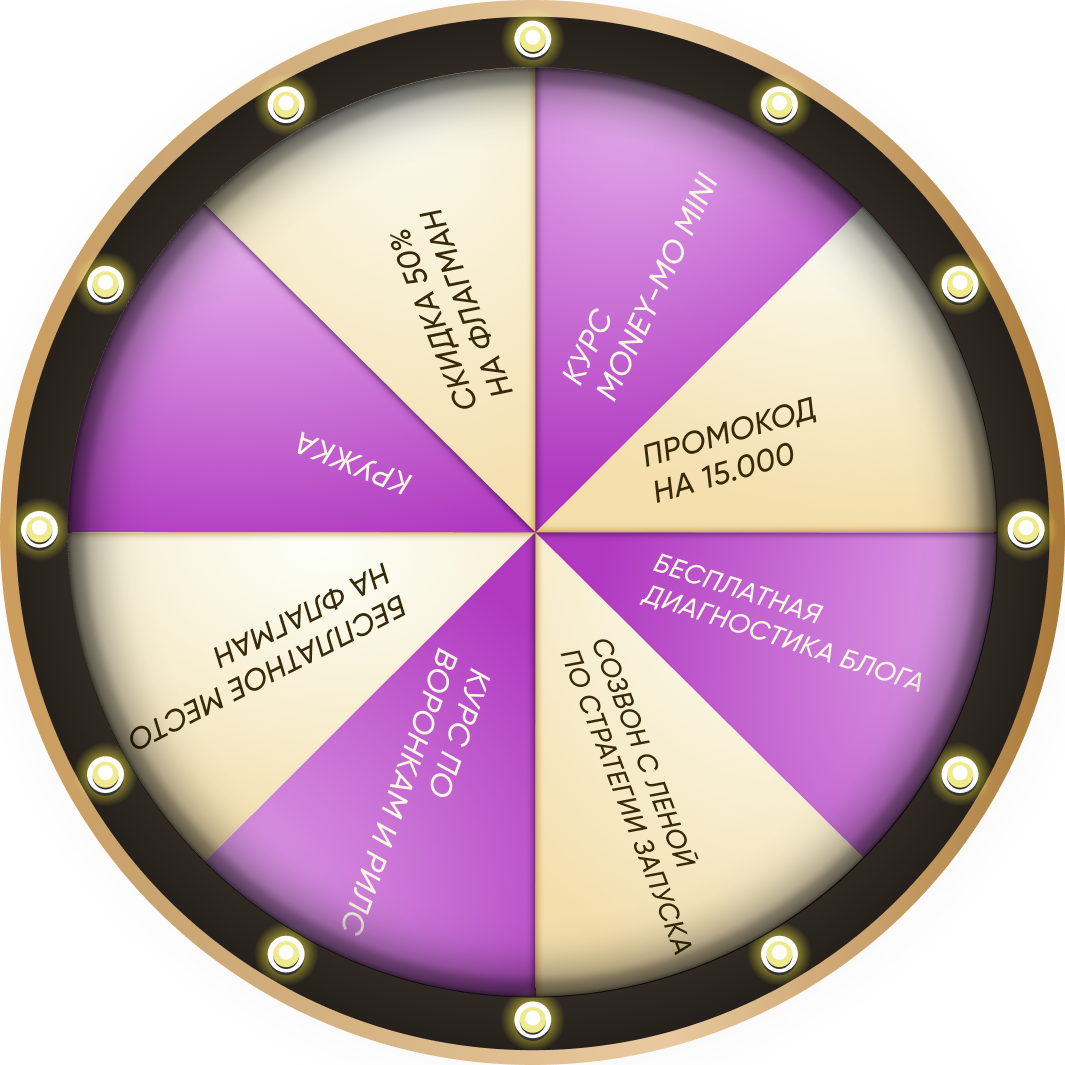
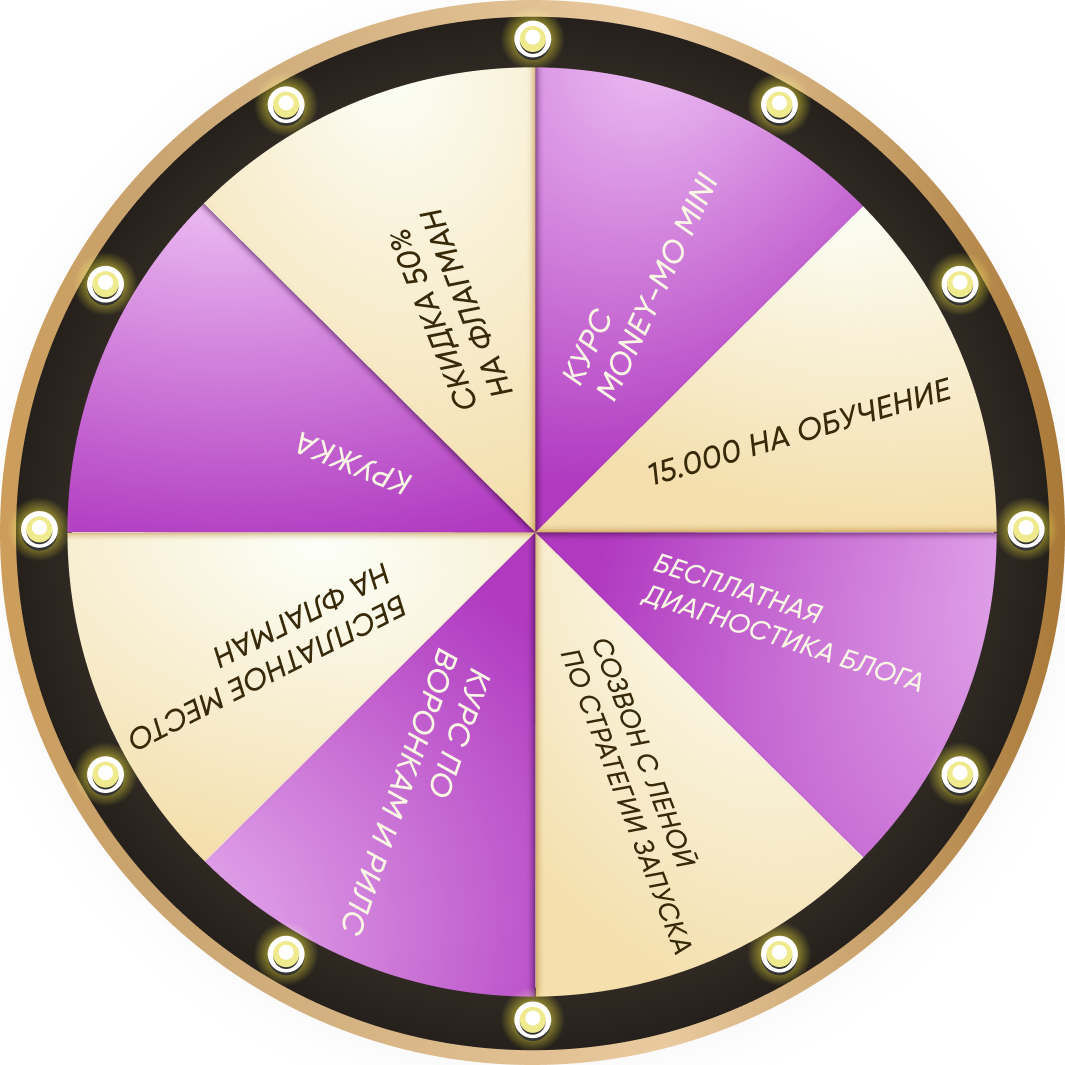
fix

Changed region(s): [[0.062, 0.062, 0.9606, 0.9606]]

diff --git a/main.js b/main.js
@@ -42,7 +42,7 @@
       dropChance: 0.03,
     },
     {
-      text: "Промокод на 15.000",
+      text: "15.000 на обучение",
       dropChance: 0.05,
     },
     {
@@ -51,7 +51,7 @@
     },
     {
       text: "Созвон с Леной по стратегии запуска",
-      dropChance: partnerId ? 0.5 : 0,
+      dropChance: partnerId ? 0 : 0.5,
     },
     {
       text: "Курс по воронкам и рилс",
